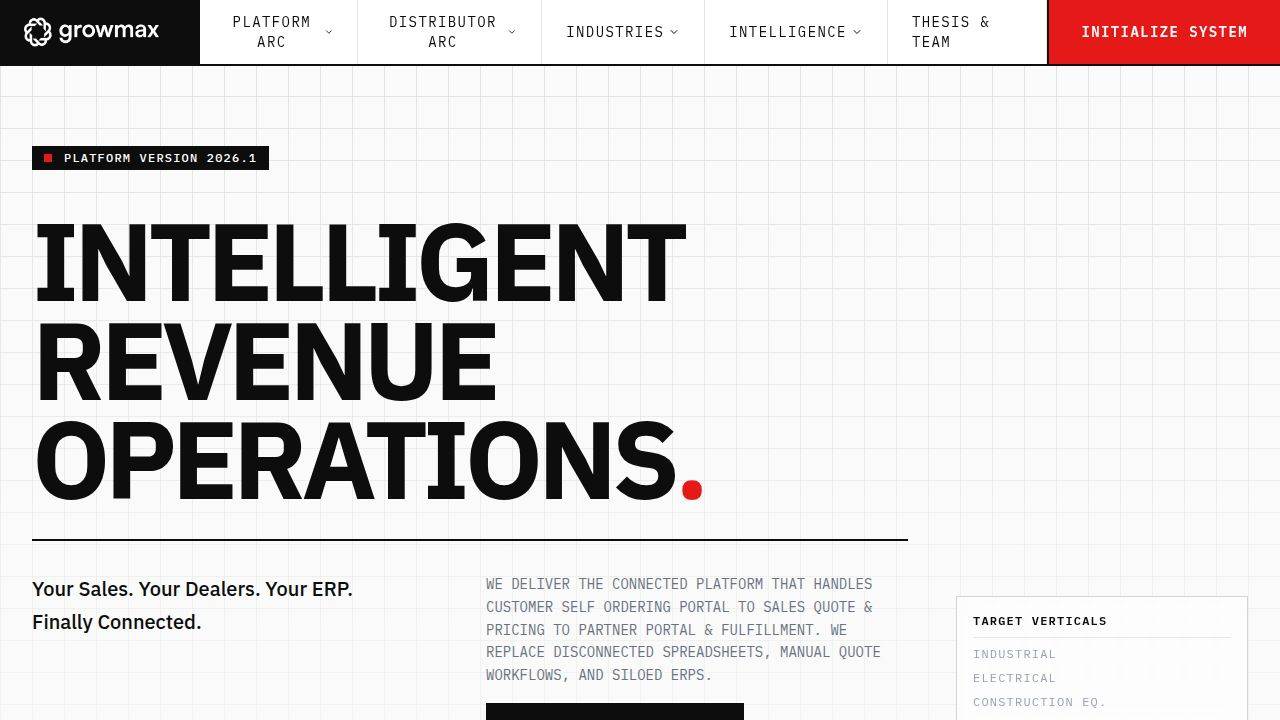
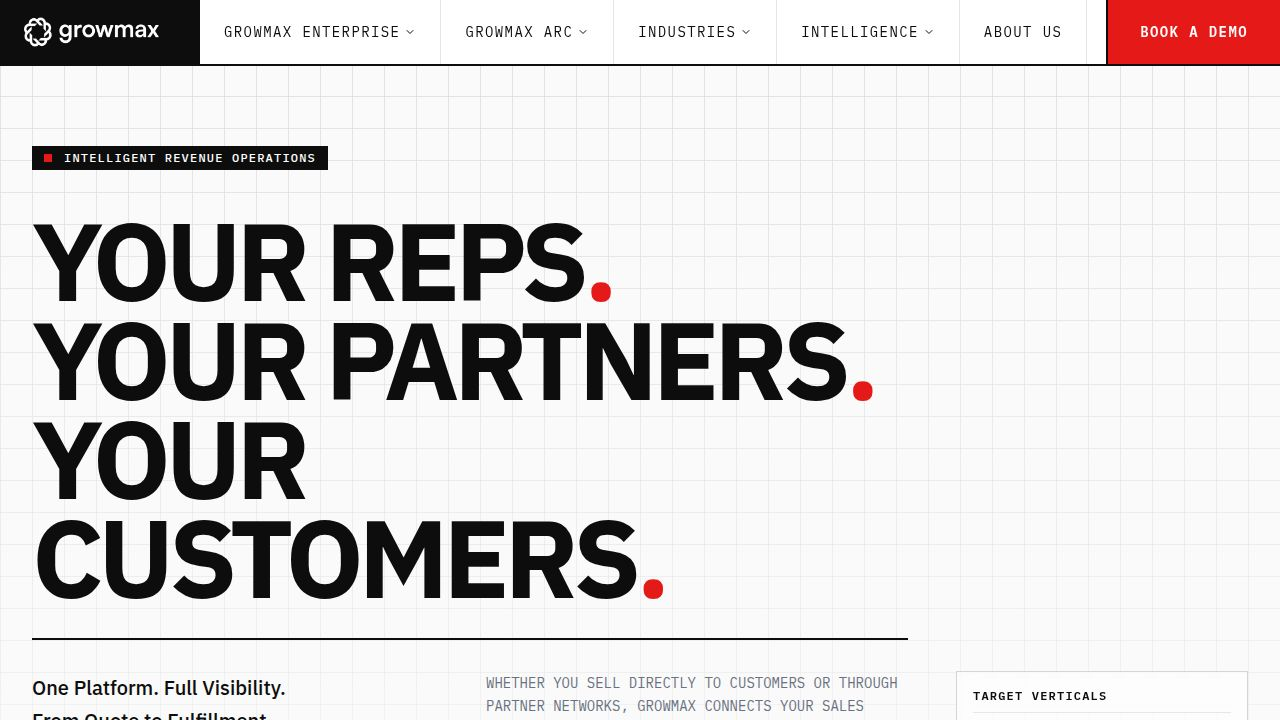
Update website content to reflect nationwide market focus
Removes specific regional targeting from SEO titles, descriptions, and page copy across various industry pages, updating them to a broader "Across America" focus. Adjusts internal documentation to reflect this nationwide market approach.

Replit-Commit-Author: Agent
Replit-Commit-Session-Id: 36227395-8891-4d5e-a99d-6be59039c3ff
Replit-Commit-Checkpoint-Type: full_checkpoint
Replit-Commit-Event-Id: e9fc7e52-d788-494f-8105-573fc02a0655
Replit-Commit-Screenshot-Url: https://storage.googleapis.com/screenshot-production-us-central1/0a72e6d7-54c1-47f5-94d3-baceac326366/36227395-8891-4d5e-a99d-6be59039c3ff/bhNfnqK
Replit-Helium-Checkpoint-Created: true

diff --git a/client/src/pages/industries/ElectricalDistributors.tsx b/client/src/pages/industries/ElectricalDistributors.tsx
@@ -72,7 +72,7 @@ export default function ElectricalDistributors() {
   return (
     <div className="min-h-screen bg-white pt-16 selection:bg-growmax-red selection:text-white">
       <SEOHead
-        title="B2B eCommerce for Electrical Distributors | Texas & East Coast"
+        title="B2B eCommerce for Electrical Distributors | Growmax"
         description="Revenue operations platform for electrical distributors. Multi-tier pricing, multi-warehouse inventory, contractor portals, and SAP integration for electrical wholesale."
         path="/industries/electrical-distributors"
         structuredData={webPageSchema({
@@ -87,8 +87,8 @@ export default function ElectricalDistributors() {
             "switchgear quoting software",
             "cable management ordering system",
             "multi-warehouse electrical distribution",
-            "electrical distributor Texas",
-            "electrical wholesale platform East Coast",
+            "electrical distributor ordering platform",
+            "electrical wholesale B2B commerce",
             "SAP integrated electrical commerce",
           ],
         })}
@@ -262,9 +262,9 @@ export default function ElectricalDistributors() {
       <section className="py-32 bg-growmax-black text-white bg-dots-dark">
         <div className="container mx-auto px-4 md:px-8">
           <div className="text-center mb-16">
-            <div className="font-mono text-xs font-bold text-growmax-red uppercase tracking-widest mb-4">Regional Focus</div>
+            <div className="font-mono text-xs font-bold text-growmax-red uppercase tracking-widest mb-4">Where Our Customers Operate</div>
             <h2 className="text-5xl md:text-6xl font-bold tracking-tighter mb-6 uppercase" data-testid="text-regional-title">
-              US East Coast & Texas
+              Electrical Distribution<br/>Across America
             </h2>
             <p className="text-xl text-gray-400 font-light max-w-2xl mx-auto">
               Purpose-built for the electrical distribution markets driving America's infrastructure growth.
@@ -298,8 +298,8 @@ export default function ElectricalDistributors() {
               "switchgear quoting software",
               "cable management ordering system",
               "multi-warehouse electrical distribution",
-              "electrical distributor Texas",
-              "electrical wholesale platform East Coast",
+              "electrical distributor ordering platform",
+              "electrical wholesale B2B platform",
               "SAP integrated electrical commerce"
             ].map((keyword, i) => (
               <span key={i} className="border border-growmax-black px-3 py-1 font-mono text-xs uppercase tracking-widest text-gray-600 hover:bg-growmax-black hover:text-white transition-colors cursor-default">

diff --git a/client/src/pages/industries/BuildingMaterials.tsx b/client/src/pages/industries/BuildingMaterials.tsx
@@ -85,7 +85,7 @@ export default function BuildingMaterials() {
   return (
     <div className="min-h-screen bg-white pt-16 selection:bg-growmax-red selection:text-white">
       <SEOHead
-        title="B2B eCommerce for Building Materials Distributors | Texas & Southeast US"
+        title="B2B eCommerce for Building Materials Distributors | Growmax"
         description="Revenue operations platform for building materials distributors. Project-based pricing, contractor account management, bulk ordering, and delivery scheduling for construction supply wholesale."
         path="/industries/building-materials"
         structuredData={structuredData}
@@ -258,9 +258,9 @@ export default function BuildingMaterials() {
       <section className="py-32 bg-growmax-black text-white bg-dots-dark">
         <div className="container mx-auto px-4 md:px-8">
           <div className="text-center mb-16">
-            <div className="font-mono text-xs font-bold text-growmax-red uppercase tracking-widest mb-4">Regional Focus</div>
+            <div className="font-mono text-xs font-bold text-growmax-red uppercase tracking-widest mb-4">Where Our Customers Operate</div>
             <h2 className="text-5xl md:text-6xl font-bold tracking-tighter mb-6 uppercase" data-testid="text-regional-title">
-              Texas & Southeast US
+              Building Materials<br/>Across America
             </h2>
             <p className="text-xl text-gray-400 font-light max-w-2xl mx-auto">
               Purpose-built for the building materials distribution markets driving America's construction boom.
@@ -294,8 +294,8 @@ export default function BuildingMaterials() {
               "lumber distributor ecommerce",
               "roofing supply ordering platform",
               "building supply delivery scheduling",
-              "drywall distributor Texas",
-              "building materials platform Southeast US",
+              "drywall distributor ecommerce",
+              "building materials B2B platform",
               "construction materials bulk ordering"
             ].map((keyword, i) => (
               <span key={i} className="border border-growmax-black px-3 py-1 font-mono text-xs uppercase tracking-widest text-gray-600 hover:bg-growmax-black hover:text-white transition-colors cursor-default">

diff --git a/client/src/pages/industries/IndustrialManufacturing.tsx b/client/src/pages/industries/IndustrialManufacturing.tsx
@@ -89,7 +89,7 @@ export default function IndustrialManufacturing() {
     <div className="min-h-screen bg-white pt-16 selection:bg-growmax-red selection:text-white">
       <SEOHead
         title="B2B Commerce for Industrial Manufacturers | Dealer Portal & Spare Parts"
-        description="Revenue operations platform for industrial equipment and machinery manufacturers. Complex BOM management, multi-tier dealer networks, spare parts portals, and SAP integration for US East Coast manufacturers."
+        description="Revenue operations platform for industrial equipment and machinery manufacturers. Complex BOM management, multi-tier dealer networks, spare parts portals, and SAP integration for manufacturers across America."
         path="/industries/industrial-manufacturing"
         structuredData={structuredData}
       />
@@ -319,9 +319,9 @@ export default function IndustrialManufacturing() {
       <section className="py-32 bg-growmax-black text-white bg-dots-dark">
         <div className="container mx-auto px-4 md:px-8">
           <div className="text-center mb-16">
-            <div className="font-mono text-xs font-bold text-growmax-red uppercase tracking-widest mb-4">Regional Focus</div>
+            <div className="font-mono text-xs font-bold text-growmax-red uppercase tracking-widest mb-4">Where Our Customers Operate</div>
             <h2 className="text-5xl md:text-6xl font-bold tracking-tighter mb-6 uppercase" data-testid="text-regional-title">
-              US East Coast & Midwest
+              Industrial Manufacturing<br/>Across America
             </h2>
             <p className="text-xl text-gray-400 font-light max-w-2xl mx-auto">
               Purpose-built for the industrial manufacturing corridors driving America's equipment and machinery production.

diff --git a/client/src/pages/industries/AutomotiveAftermarket.tsx b/client/src/pages/industries/AutomotiveAftermarket.tsx
@@ -318,9 +318,9 @@ export default function AutomotiveAftermarket() {
       <section className="py-32 bg-growmax-black text-white bg-dots-dark">
         <div className="container mx-auto px-4 md:px-8">
           <div className="text-center mb-16">
-            <div className="font-mono text-xs font-bold text-growmax-red uppercase tracking-widest mb-4">Regional Focus</div>
+            <div className="font-mono text-xs font-bold text-growmax-red uppercase tracking-widest mb-4">Where Our Customers Operate</div>
             <h2 className="text-5xl md:text-6xl font-bold tracking-tighter mb-6 uppercase" data-testid="text-regional-title">
-              Key Automotive Markets
+              Automotive Aftermarket<br/>Across America
             </h2>
             <p className="text-xl text-gray-400 font-light max-w-2xl mx-auto">
               Purpose-built for the automotive aftermarket hubs driving America's $200B+ parts industry.

diff --git a/client/src/pages/industries/ChemicalDistributors.tsx b/client/src/pages/industries/ChemicalDistributors.tsx
@@ -278,9 +278,9 @@ export default function ChemicalDistributors() {
       <section className="py-32 bg-growmax-black text-white bg-dots-dark">
         <div className="container mx-auto px-4 md:px-8">
           <div className="text-center mb-16">
-            <div className="font-mono text-xs font-bold text-growmax-red uppercase tracking-widest mb-4">Regional Focus</div>
+            <div className="font-mono text-xs font-bold text-growmax-red uppercase tracking-widest mb-4">Where Our Customers Operate</div>
             <h2 className="text-5xl md:text-6xl font-bold tracking-tighter mb-6 uppercase" data-testid="text-regional-title">
-              Chemical Corridors & Industrial Hubs
+              Chemical Distribution<br/>Across America
             </h2>
             <p className="text-xl text-gray-400 font-light max-w-2xl mx-auto">
               Purpose-built for the chemical distribution markets serving America's manufacturing and process industries.

diff --git a/client/src/pages/industries/FoodBeverage.tsx b/client/src/pages/industries/FoodBeverage.tsx
@@ -314,9 +314,9 @@ export default function FoodBeverage() {
       <section className="py-32 bg-growmax-black text-white bg-dots-dark">
         <div className="container mx-auto px-4 md:px-8">
           <div className="text-center mb-16">
-            <div className="font-mono text-xs font-bold text-growmax-red uppercase tracking-widest mb-4">Regional Focus</div>
+            <div className="font-mono text-xs font-bold text-growmax-red uppercase tracking-widest mb-4">Where Our Customers Operate</div>
             <h2 className="text-5xl md:text-6xl font-bold tracking-tighter mb-6 uppercase" data-testid="text-regional-title">
-              Nationwide F&B Coverage
+              Food & Beverage<br/>Across America
             </h2>
             <p className="text-xl text-gray-400 font-light max-w-2xl mx-auto">
               Purpose-built for food and beverage distribution markets across America's largest metro areas.

diff --git a/client/src/pages/industries/IndustrialFasteners.tsx b/client/src/pages/industries/IndustrialFasteners.tsx
@@ -278,9 +278,9 @@ export default function IndustrialFasteners() {
       <section className="py-32 bg-growmax-black text-white bg-dots-dark">
         <div className="container mx-auto px-4 md:px-8">
           <div className="text-center mb-16">
-            <div className="font-mono text-xs font-bold text-growmax-red uppercase tracking-widest mb-4">Regional Focus</div>
+            <div className="font-mono text-xs font-bold text-growmax-red uppercase tracking-widest mb-4">Where Our Customers Operate</div>
             <h2 className="text-5xl md:text-6xl font-bold tracking-tighter mb-6 uppercase" data-testid="text-regional-title">
-              Manufacturing Heartland
+              Industrial Fasteners<br/>Across America
             </h2>
             <p className="text-xl text-gray-400 font-light max-w-2xl mx-auto">
               Purpose-built for the industrial fastener distribution markets serving America's manufacturing and construction sectors.

diff --git a/client/src/pages/industries/JanitorialSanitation.tsx b/client/src/pages/industries/JanitorialSanitation.tsx
@@ -278,9 +278,9 @@ export default function JanitorialSanitation() {
       <section className="py-32 bg-growmax-black text-white bg-dots-dark">
         <div className="container mx-auto px-4 md:px-8">
           <div className="text-center mb-16">
-            <div className="font-mono text-xs font-bold text-growmax-red uppercase tracking-widest mb-4">Regional Focus</div>
+            <div className="font-mono text-xs font-bold text-growmax-red uppercase tracking-widest mb-4">Where Our Customers Operate</div>
             <h2 className="text-5xl md:text-6xl font-bold tracking-tighter mb-6 uppercase" data-testid="text-regional-title">
-              Nationwide Coverage
+              Jan-San Distribution<br/>Across America
             </h2>
             <p className="text-xl text-gray-400 font-light max-w-2xl mx-auto">
               Purpose-built for the janitorial and sanitation distribution markets serving commercial facilities across America.

diff --git a/client/src/pages/industries/PlumbingHvac.tsx b/client/src/pages/industries/PlumbingHvac.tsx
@@ -278,9 +278,9 @@ export default function PlumbingHvac() {
       <section className="py-32 bg-growmax-black text-white bg-dots-dark">
         <div className="container mx-auto px-4 md:px-8">
           <div className="text-center mb-16">
-            <div className="font-mono text-xs font-bold text-growmax-red uppercase tracking-widest mb-4">Regional Focus</div>
+            <div className="font-mono text-xs font-bold text-growmax-red uppercase tracking-widest mb-4">Where Our Customers Operate</div>
             <h2 className="text-5xl md:text-6xl font-bold tracking-tighter mb-6 uppercase" data-testid="text-regional-title">
-              Sun Belt & High-Growth Markets
+              Plumbing & HVAC<br/>Across America
             </h2>
             <p className="text-xl text-gray-400 font-light max-w-2xl mx-auto">
               Purpose-built for the plumbing and HVAC distribution markets driving America's construction and retrofit boom.

diff --git a/client/src/pages/industries/PumpValve.tsx b/client/src/pages/industries/PumpValve.tsx
@@ -278,9 +278,9 @@ export default function PumpValve() {
       <section className="py-32 bg-growmax-black text-white bg-dots-dark">
         <div className="container mx-auto px-4 md:px-8">
           <div className="text-center mb-16">
-            <div className="font-mono text-xs font-bold text-growmax-red uppercase tracking-widest mb-4">Regional Focus</div>
+            <div className="font-mono text-xs font-bold text-growmax-red uppercase tracking-widest mb-4">Where Our Customers Operate</div>
             <h2 className="text-5xl md:text-6xl font-bold tracking-tighter mb-6 uppercase" data-testid="text-regional-title">
-              Energy & Process Industry Corridors
+              Pump & Valve<br/>Across America
             </h2>
             <p className="text-xl text-gray-400 font-light max-w-2xl mx-auto">
               Purpose-built for the pump and valve distribution markets serving America's critical process industries.

diff --git a/client/src/pages/industries/SafetyPpe.tsx b/client/src/pages/industries/SafetyPpe.tsx
@@ -278,9 +278,9 @@ export default function SafetyPpe() {
       <section className="py-32 bg-growmax-black text-white bg-dots-dark">
         <div className="container mx-auto px-4 md:px-8">
           <div className="text-center mb-16">
-            <div className="font-mono text-xs font-bold text-growmax-red uppercase tracking-widest mb-4">Regional Focus</div>
+            <div className="font-mono text-xs font-bold text-growmax-red uppercase tracking-widest mb-4">Where Our Customers Operate</div>
             <h2 className="text-5xl md:text-6xl font-bold tracking-tighter mb-6 uppercase" data-testid="text-regional-title">
-              Industrial Heartland & Energy Corridor
+              Safety & PPE<br/>Across America
             </h2>
             <p className="text-xl text-gray-400 font-light max-w-2xl mx-auto">
               Purpose-built for the safety and PPE distribution markets serving America's most demanding industrial environments.

diff --git a/client/src/pages/revenue-platform/RevenuePlatform.tsx b/client/src/pages/revenue-platform/RevenuePlatform.tsx
@@ -214,8 +214,7 @@ export default function RevenuePlatform() {
       <section className="py-16 bg-growmax-black text-white border-t border-gray-800 border-b-4 border-growmax-red">
          <div className="container mx-auto px-4 text-center">
             <p className="font-mono text-sm uppercase tracking-widest text-gray-400">
-               Optimized for Industrial & Electrical Manufacturers with Partner Networks <br/> 
-               <span className="text-growmax-red font-bold">Target Focus: US East Coast & Texas Region</span>
+               Optimized for Industrial & Electrical Manufacturers with Partner Networks
             </p>
          </div>
       </section>